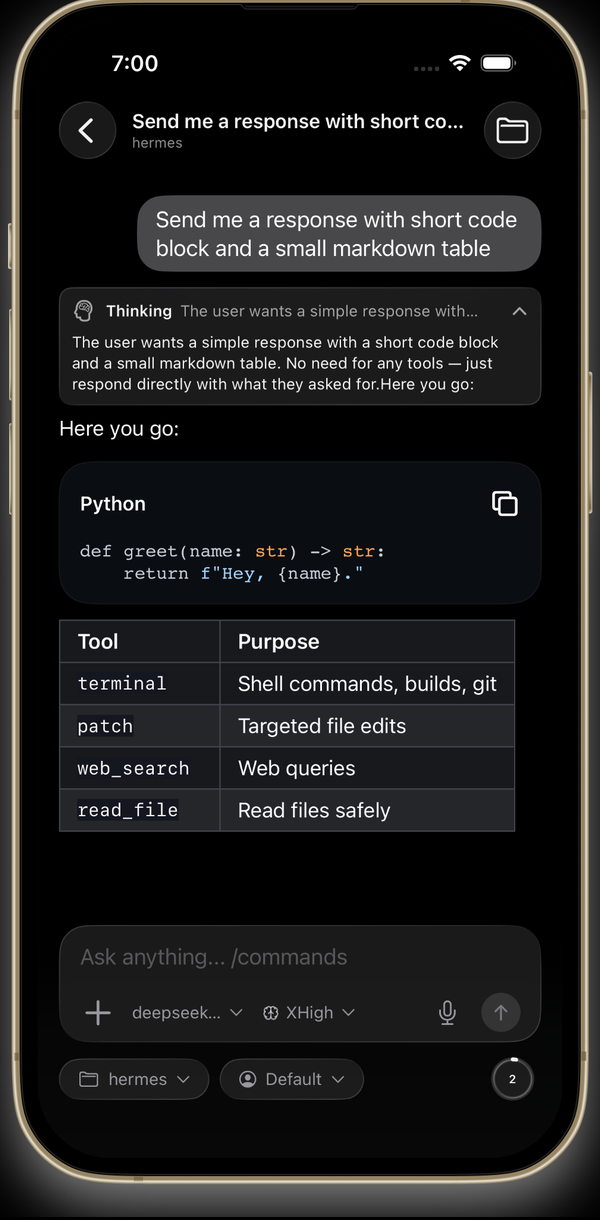
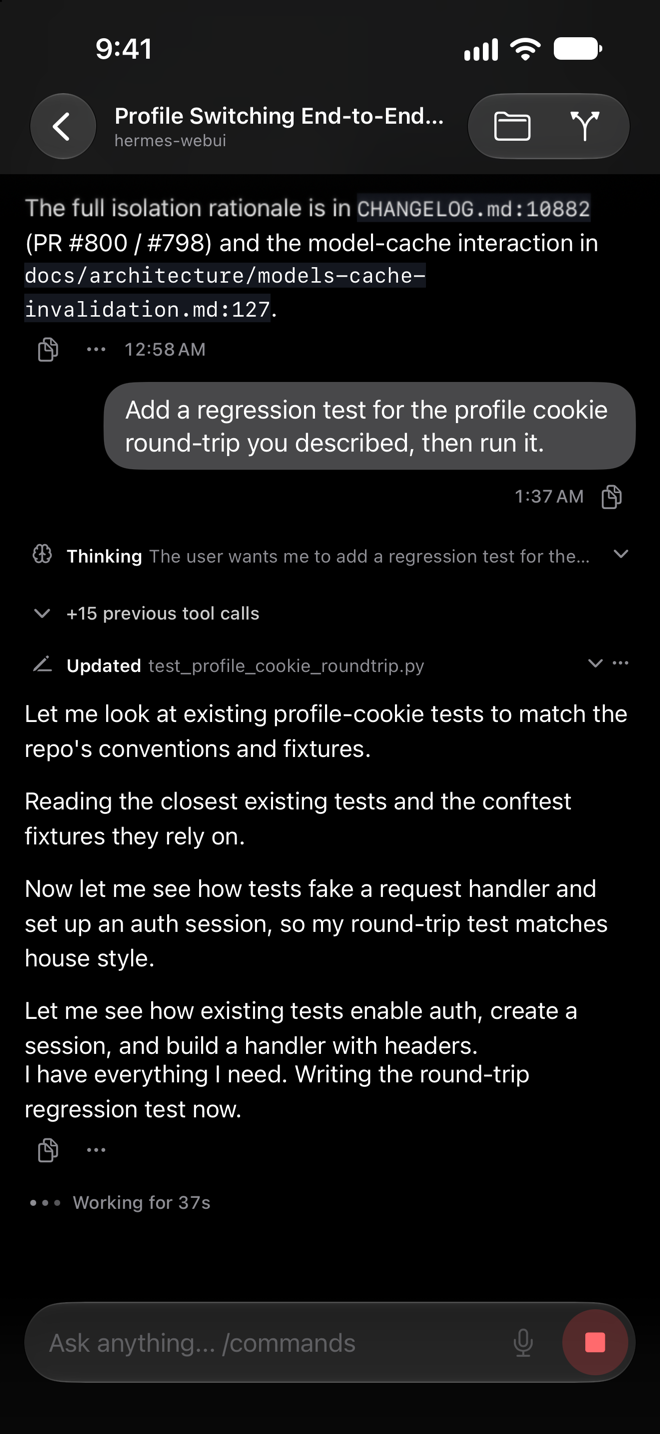
docs: refresh the README for Hermex 2.0 (#1487)
## Linked issue

None. Maintainer-requested docs refresh after the 2.0 release.

## What changed

Hermex 2.0 talks to Hermes directly, but the README still told new users
to install hermes-webui, used port 8787, checked `/health`, and showed
July screenshots.

The README now leads with Hermes. Getting started covers the dashboard
on 9119, `public_url`, sign-in, and the onboarding setup prompt, and
links the hermexapp.com setup guide. Reachability and troubleshooting
follow the same order as that guide. A short **Legacy hermes-webui
servers** section keeps the webui details and explains Move to Hermes.
The feature list, compatibility section (0.21.3 minimum, 0.22.3 for
session edits and moves), build steps (Xcode 27, `scripts/test-sim`),
and docs list are current.

The screenshots are the newest real captures in hermex-studio (the 1.9
batch, the same set hermexapp.com shows): chat, Bots, a Git diff, and
Tasks, resized to 660 px. A 2.0 reshoot is a planned follow-up.

CONTRIBUTING.md and SECURITY.md had the same webui-first claims and are
updated too. DEVELOPMENT.md's webui-first local setup is left for a
separate change.

## How it was tested

Docs and images only, so no build or XCTest. Every relative link and
image in the README resolves, the new badges render, the hermexapp.com
setup links return 200, and `git diff --check` is clean. Claims were
checked against the 2.0 changelog, `docs/agents/`,
`HermesCompatibility`, the onboarding setup prompt, and the
[…]

diff --git a/README.md b/README.md
@@ -4,12 +4,10 @@
 
 # Hermex
 
-**Control your self-hosted [Hermes](https://github.com/nesquena/hermes-webui) agent from your iPhone.**
+**Run your self-hosted [Hermes](https://github.com/NousResearch/hermes-agent) agent from your iPhone and iPad.**
 
-Your server. Your iPhone. No middleman.
-
-[![iOS 18+](https://img.shields.io/badge/iOS-18%2B-000000?logo=apple&logoColor=white)](https://apps.apple.com/app/hermex/id6767006319)
-[![Swift](https://img.shields.io/badge/Swift-5.9%2B-F05138?logo=swift&logoColor=white)](https://swift.org)
+[![iOS and iPadOS 18+](https://img.shields.io/badge/iOS%20%7C%20iPadOS-18%2B-000000?logo=apple&logoColor=white)](https://apps.apple.com/app/hermex/id6767006319)
+[![Swift](https://img.shields.io/badge/Swift-F05138?logo=swift&logoColor=white)](https://swift.org)
 [![License: MIT](https://img.shields.io/badge/License-MIT-brightgreen.svg)](LICENSE)
 [![Follow on X](https://img.shields.io/badge/Follow-%40uzairansar-000000?logo=x&logoColor=white)](https://x.com/uzairansar)
 [![Buy Me a Coffee](https://img.shields.io/badge/Buy%20Me%20a%20Coffee-support-FFDD00?logo=buymeacoffee&logoColor=black)](https://buymeacoffee.com/callmeuzi)
@@ -18,129 +16,146 @@ Your server. Your iPhone. No middleman.
   <img src="https://toolbox.marketingtools.apple.com/api/v2/badges/download-on-the-app-store/black/en-us" alt="Download on the App Store" height="50" />
 </a>
 
-[Website](https://hermexapp.com) · [App Store](https://apps.apple.com/app/hermex/id6767006319) · [Report a bug](https://github.com/uzairansaruzi/hermex/issues) · [Contributing](CONTRIBUTING.md)
+[Website](https://hermexapp.com) · [Setup guide](https://hermexapp.com/setup) · [App Store](https://apps.apple.com/app/hermex/id6767006319) · [Report a bug](https://github.com/uzairansaruzi/hermex/issues) · [Contributing](CONTRIBUTING.md)
 
-<img src="docs/assets/readme/hero-devices.png" alt="Hermex running on two iPhones: a streaming chat session and the home screen with Tasks, Skills, Memory, Insights, and Sessions" width="720" />
-
-</div>
-
-Hermex is a native SwiftUI iPhone app for driving a self-hosted [hermes-webui](https://github.com/nesquena/hermes-webui) server — a mobile cockpit for an AI agent that lives on a machine **you** control. The phone is the control plane, not the compute plane: the agent, its tools, and your data stay on your own hardware.
-
-- **Free.** No subscriptions, no in-app purchases.
-- **Private.** No analytics, no tracking. The app talks only to your server. Push notifications are optional and off until you enable them: an open-source relay you can self-host forwards them, seeing device tokens, notification metadata (kind, source, thread and session ids, timestamps), and ciphertext. It never sees message text, server URLs, or credentials.
-- **Native.** Real SwiftUI, built for iOS 18+, not a web wrapper.
-
-## Features
-
-- **Chat with your agent** — send messages with model, reasoning-effort, workspace, and profile options; attach files and images; watch responses stream in real time with thinking and tool-call detail.
-- **Documents in direct-Hermes chats** — tap a PDF or other supported `MEDIA:` document to read it in Quick Look, then save or share it.
-- **Steer or stop a run** mid-flight.
-- **Sessions** — browse, search, and resume every conversation on your server; cached sessions stay readable offline.
-- **Pick your models** — switch between any model or provider your server is configured for, with recents and favorites.
-- **Profiles & projects** — switch agent profiles and organize sessions into projects.
-- **Tasks** — view and edit your agent's scheduled cron jobs from your phone.
-- **Skills** — browse and search the agent's installed skills.
-- **Workspace browser** — explore your server's file system from the app.
-- **Memory & Insights** — read-only panels for agent memory and usage analytics.
-
-<div align="center">
 <table>
   <tr>
-    <td align="center"><img src="docs/assets/readme/screenshot-chat.png" alt="Streaming chat with code blocks and markdown tables" width="240" /><br /><sub><b>Stream responses in real time</b></sub></td>
-    <td align="center"><img src="docs/assets/readme/screenshot-tasks.png" alt="Tasks screen listing scheduled cron jobs" width="240" /><br /><sub><b>Manage scheduled tasks</b></sub></td>
-    <td align="center"><img src="docs/assets/readme/screenshot-skills.png" alt="Skills screen with searchable agent skills" width="240" /><br /><sub><b>Browse agent skills</b></sub></td>
+    <td align="center"><img src="docs/assets/readme/screenshot-chat.png" alt="A chat streaming the agent's thinking, tool calls, and reply" width="200" /><br /><sub><b>Stream and steer work</b></sub></td>
+    <td align="center"><img src="docs/assets/readme/screenshot-bots.png" alt="The Bots inbox with one-to-one and group chats" width="200" /><br /><sub><b>Chat with your bots</b></sub></td>
+    <td align="center"><img src="docs/assets/readme/screenshot-git.png" alt="A diff of four changed files, ready to stage" width="200" /><br /><sub><b>Review and commit changes</b></sub></td>
+    <td align="center"><img src="docs/assets/readme/screenshot-tasks.png" alt="A scheduled Task running, with its prompt and run history" width="200" /><br /><sub><b>Run scheduled Tasks</b></sub></td>
   </tr>
 </table>
 
-More screenshots at [hermexapp.com](https://hermexapp.com).
+More screenshots are on [hermexapp.com](https://hermexapp.com).
+
 </div>
+
+Hermex is a native SwiftUI app for iPhone and iPad. It connects directly to a [Hermes Agent](https://github.com/NousResearch/hermes-agent) host that you run. From your phone, you start and steer sessions, follow streaming work, answer the agent's questions, and review what it changed. Your server runs the agent and its tools, holds your data, and calls the model providers you configure.
+
+- **Free.** Hermex has no subscriptions and no in-app purchases.
+- **Private.** Hermex has no analytics and no tracking. Agent traffic goes only to your server. Push notifications are optional and off until you turn them on. They pass through an open-source relay that you can host yourself, and the relay never sees message text, server URLs, or credentials. [`docs/agents/push.md`](docs/agents/push.md) lists the metadata the relay does see.
+- **Native.** Hermex runs on iOS and iPadOS 18 or later, and it isn't a web wrapper.
+
+## What you can do
+
+On a Hermes server, Hermex gives you these features:
+
+- **Chat.** Stream replies with the agent's thinking and tool calls. Steer or stop a run, answer approvals and questions, and attach images and documents. Pick the model, Profile, and reasoning effort from the composer.
+- **Voice.** Dictate with the host's speech-to-text, and listen to replies in the host's voice.
+- **Sessions.** Search, rename, pin, archive, branch, and export sessions, and group them into projects. Cached sessions stay readable offline.
+- **Bots.** Chat with your Hermes bots one to one or in group chats.
+- **Files and Git.** Browse and preview the session's workspace files. See the Git status, then stage, commit, push, and switch branches.
+- **Tasks and Kanban.** Create scheduled Tasks, run them on demand, and read their run history. Manage Kanban boards and Cards with live updates.
+- **Skills, Memory, and Usage.** Turn skills on and off, edit the agent's memory and soul, and read its usage.
+- **Notifications and Live Activities.** Get a push when a reply finishes, and follow a run on the Lock Screen and in the Dynamic Island.
+- **System integration.** Start chats from Shortcuts, and share files and text into a session from other apps. On iPad, the session list sits in a sidebar beside the open chat.
+- **Multiple servers.** Add several servers and switch between them. Each server keeps its own sign-in, cache, and drafts.
 
 ## Getting started
 
-Hermex is a client only — it does not ship with, host, or provision a backend. You bring your own [hermes-webui](https://github.com/nesquena/hermes-webui) server (a third-party, MIT-licensed open-source project) running on a machine you control. Setup takes about 15 minutes:
+Hermex is a client only. It doesn't ship, host, or provision a server. You run Hermes Agent on a machine you control, and you're responsible for securing it and keeping it reachable.
 
-1. **Run the server.** Install and start `hermes-webui` on macOS, Linux, or Windows/WSL2 (Python 3.11+). Set `HERMES_WEBUI_PASSWORD`.
-2. **Make it reachable from your phone** (see options below).
-3. **Connect.** [Download Hermex](https://apps.apple.com/app/hermex/id6767006319), enter your server URL (e.g. `https://hermes.yourdomain.com`) and password, and you're in.
+The [setup guide](https://hermexapp.com/setup) covers each step in detail.
 
-**Running a Hermes host instead?** Hermex can also sign in to Hermes's own dashboard (`hermes dashboard`, port 9119). Onboarding's first step gives your agent a prompt that sets it up: username and password sign-in under `dashboard.basic_auth`, a persistent `dashboard.basic_auth.secret` so sign-ins survive a restart, and `dashboard.public_url` set to the address your phone uses, reached through one of the options below. Those examples use the Web UI's port 8787; substitute your dashboard's port (9119 by default) in addresses and forwarding commands. Hermes refuses to serve beyond `127.0.0.1` without that sign-in.
+1. Install Hermes Agent 0.21.3 or later. The [installation docs](https://hermes-agent.nousresearch.com/docs/getting-started/installation) cover Linux, macOS, WSL2, and native Windows. To update an existing install, run `hermes update`.
+2. Start the dashboard with `hermes dashboard`. It listens on `127.0.0.1:9119`, so only that machine can reach it.
+3. Make the dashboard reachable from your phone. [Make the server reachable](#make-the-server-reachable) lists the options.
+4. In `~/.hermes/config.yaml`, set `dashboard.public_url` to the address your phone uses. Then restart the dashboard with `hermes dashboard --no-open`. If you chose another private network or the same Wi-Fi, add the same `--host` flag. When it asks how to sign in, choose **Username & password**.
+5. Open [Hermex](https://apps.apple.com/app/hermex/id6767006319), enter the address, and tap **Connect**. Enter the dashboard's username and password, and tap **Connect** again.
 
-Self-hosting the server, securing it, and keeping it reachable are your responsibility.
+To have your agent do steps 3 and 4 for you, send it the setup prompt from Hermex's onboarding. The agent asks before it adds a route, and it tells you before it restarts the dashboard. Hermex also signs in to dashboards that use browser sign-in.
 
-### Making the server reachable
+### Make the server reachable
 
-- **HTTPS via a tunnel or reverse proxy (recommended).** Expose the server through Cloudflare Tunnel or any reverse proxy that terminates real TLS at a hostname you own. Real HTTPS keeps iOS App Transport Security happy with no exceptions. On a publicly reachable hostname the password is your only app-level defense — set a strong one.
-- **Private HTTPS with Tailscale Serve.** Keep the server password-protected and bound to `127.0.0.1:8787`, inspect existing Serve/Funnel routes, then add `tailscale serve --bg 8787` only when HTTPS port 443 at the root path is free. Install Tailscale on the iPhone and connect with the exact `https://…ts.net` URL reported by `tailscale serve status`. Direct binding to `0.0.0.0` over plain HTTP remains a manual fallback, not the default.
-- **Another private network, such as NetBird.** Install its app on the iPhone, keep it connected, and use the server's name or IP on that network.
-- **Same Wi-Fi.** On a home network you trust, use the machine's local address and port, such as `http://192.168.1.5:8787`. The server must listen on that address rather than only `127.0.0.1`, which exposes it to every device on the network, so keep the password strong.
-- **Simulator-only local testing** can use `http://localhost:8787` when the server runs on the same Mac.
+Pick one of these routes. Each one gives you the address you enter in Hermex.
 
-### Troubleshooting the connection
+- **Tailscale Serve (recommended).** Install Tailscale on the server machine and on your iPhone, and sign both in to the same tailnet. Leave the dashboard on `127.0.0.1` and run `tailscale serve --bg 9119`. Serve takes HTTPS port 443 at the root path. If the machine already serves something there, run `tailscale serve status` first so you don't replace it. Your address is the `https://<machine>.<tailnet>.ts.net` URL that `tailscale serve status` prints.
+- **Cloudflare Tunnel behind Cloudflare Access.** A tunnel gives the dashboard a public HTTPS hostname without an open port. The dashboard's password sign-in isn't meant for the open internet, so put Cloudflare Access with a service token in front of it. When you connect in Hermex, choose **Cloudflare Tunnel** and paste the token's Client ID and Client Secret.
+- **Another private network, such as NetBird.** Install its app on the iPhone and keep it connected. Start the dashboard with `--host` set to the machine's address on that network, and use that address.
+- **Same Wi-Fi.** Start the dashboard with `--host 0.0.0.0` and use `http://<machine-ip>:9119`. The password then crosses your network unencrypted, so do this only on a network you trust.
+- **Simulator only.** Use `http://localhost:9119` when the dashboard runs on the same Mac.
 
-If connection testing fails, check these first:
+### Troubleshoot the connection
 
-1. The machine hosting `hermes-webui` is awake.
-2. `hermes-webui` is running and serving `/health` (`curl https://<your-server>/health`).
-3. The tunnel, reverse proxy, or Tailscale route is connected.
-4. The server URL and password are correct.
+If Hermex can't connect, check these in order:
 
-## Building from source
+1. The server machine is awake, and the dashboard is running.
+2. The tunnel, proxy, or Tailscale route is connected.
+3. From another device, `curl https://<your-host>/api/status` returns `"auth_required": true`. Behind Cloudflare Access, add the service token's `CF-Access-Client-Id` and `CF-Access-Client-Secret` headers.
+4. The address in Hermex matches the scheme and host in `dashboard.public_url`.
+5. The username and password are correct.
 
-Prefer the [App Store build](https://apps.apple.com/app/hermex/id6767006319) unless you're developing. To build yourself you need Xcode 26 or newer (iOS 18 SDK) and an iPhone or simulator on iOS 18+.
-
-Clone the repo, open `HermesMobile.xcodeproj`, and run the `HermesMobile` scheme on an iPhone simulator (the Xcode target is `HermesMobile`; the app's display name is `Hermex`). Dependencies are resolved automatically via Swift Package Manager.
-
-From the command line:
-
-```zsh
-xcodebuild -project HermesMobile.xcodeproj -scheme HermesMobile -destination 'platform=iOS Simulator,name=iPhone 17' build
-```
-
-```zsh
-xcodebuild test -project HermesMobile.xcodeproj -scheme HermesMobile -destination 'platform=iOS Simulator,name=iPhone 17'
-```
-
-If that simulator is not installed, list available devices and choose a nearby iPhone simulator:
-
-```zsh
-xcrun simctl list devices available
-```
-
-Local validation defaults for XcodeBuildMCP users live in `.xcodebuildmcp/config.yaml`; the standard post-change flow is in [`DEVELOPMENT.md`](DEVELOPMENT.md).
+If sign-in works but chats fail, check that your proxy forwards WebSocket connections.
 
 ## Server compatibility
 
-The app is developed and tested against the `hermes-webui` commit pinned in [`UPSTREAM_TESTED_SHA`](UPSTREAM_TESTED_SHA). Upstream does not yet guarantee API stability (its README declares version skew unsupported pending their stable-API work), so newer or older server versions may break individual features — please include your server version in bug reports. The app decodes tolerantly (unknown fields never crash it) and endpoint shapes are verified against upstream source, never invented.
+Hermex signs in to Hermes 0.21.3 and later. On an older host, it asks you to update Hermes. Session edits and Move to Hermes need Hermes 0.22.3 or later.
 
-Bot Mode's direct-Hermes connection has its own pin, [`HERMES_AGENT_TESTED_SHA`](HERMES_AGENT_TESTED_SHA): line 1 is the tested `hermes-agent` commit and line 2 the release string its `/api/status` reports. Hermex refuses a host older than Hermes 0.21.3, the first release with the gateway contract it is built on, and asks you to update Hermes; 0.21.3 and later connect without a warning.
+We test each release against the `hermes-agent` commit in [`HERMES_AGENT_TESTED_SHA`](HERMES_AGENT_TESTED_SHA). Line 1 is the commit, and line 2 is the release that commit reports. Hermex decodes server responses tolerantly, so a field it doesn't know never crashes it. Include your Hermes version in bug reports.
 
-## Documentation map
+Push notifications, Git fetch and pull, and provider limits in Usage need the open-source [hermex-push](https://github.com/uzairansaruzi/hermex-push) plugin on the host. Hermex installs the plugin when you turn on push for a server.
 
-- [`AGENTS.md`](AGENTS.md): the working agreement — product boundaries, server-contract rules, locked dependencies, verification, and PR flow.
-- [`DEVELOPMENT.md`](DEVELOPMENT.md): local development workflow, server setup notes, and the maintainer release runbook.
-- [`TESTFLIGHT.md`](TESTFLIGHT.md): maintainer-only TestFlight/App Store Connect operations.
+## Legacy hermes-webui servers
+
+Hermex 1.x connected to [hermes-webui](https://github.com/nesquena/hermes-webui) servers. Those servers still work in Hermex 2.0 and still get fixes, but new features go to Hermes. Settings marks them **Legacy**.
+
+- To keep using a webui server, sign in with its address and password as before. The [legacy setup guide](https://hermexapp.com/setup/webui) covers running it and making it reachable. A webui server listens on port 8787, and `curl https://<your-server>/health` checks that it's up.
+- To switch to Hermes, use **Move to Hermes**. It copies a webui server's chats and drafts to a Hermes host. Push carries over when the Hermes host is the same Hermes install. Otherwise, turn notifications on again for the Hermes server. The webui server keeps working until you remove it.
+
+The webui contract is pinned to the commit in [`UPSTREAM_TESTED_SHA`](UPSTREAM_TESTED_SHA). Upstream doesn't guarantee a stable API, so a newer or older server can break individual features.
+
+## Build from source
+
+Use the [App Store build](https://apps.apple.com/app/hermex/id6767006319) unless you're developing Hermex. To build it yourself, you need Xcode 27 and an iPhone, iPad, or simulator on iOS 18 or later. CI pins Xcode 27.0.
+
+Open `HermesMobile.xcodeproj` and run the `HermesMobile` scheme. The Xcode target is `HermesMobile`, and the app's display name is Hermex. Xcode resolves the dependencies through Swift Package Manager.
+
+To build from the command line, pick a simulator UDID from `xcrun simctl list devices available`:
+
+```zsh
+xcodebuild -project HermesMobile.xcodeproj -scheme HermesMobile -destination 'platform=iOS Simulator,id=<simulator-udid>' build
+```
+
+To run the tests, use the repository's test runner:
+
+```zsh
+scripts/test-sim <simulator-udid>
+```
+
+[`DEVELOPMENT.md`](DEVELOPMENT.md) covers the full local workflow, including signing and test logs. XcodeBuildMCP reads its defaults from `.xcodebuildmcp/config.yaml`.
+
+## Documentation
+
+- [`AGENTS.md`](AGENTS.md): the working agreement. It covers product boundaries, server-contract rules, locked dependencies, verification, and PR flow.
+- [`CONTEXT.md`](CONTEXT.md): the project's vocabulary.
+- [`DEVELOPMENT.md`](DEVELOPMENT.md): local development, server setup, and the maintainer release runbook.
+- [`CHANGELOG.md`](CHANGELOG.md): what changed in each App Store release.
+- [`docs/agents/hermes-server.md`](docs/agents/hermes-server.md): how Hermex signs in to a Hermes host and reconnects.
+- [`docs/agents/push.md`](docs/agents/push.md): the push components and the data the relay sees.
+- [`docs/agents/`](docs/agents): the other agent conventions and feature notes.
+- [`TESTFLIGHT.md`](TESTFLIGHT.md): maintainer-only TestFlight and App Store Connect operations.
 - [`SECURITY.md`](SECURITY.md): how to report a vulnerability.
-- [`docs/agents/`](docs/agents): repo-local agent workflow conventions (issues, triage labels, domain notes).
-- [GitHub Issues](https://github.com/uzairansaruzi/hermex/issues): source of truth for active bugs, polish notes, and feature requests.
+- [GitHub Issues](https://github.com/uzairansaruzi/hermex/issues): the roadmap, active bugs, and feature requests.
 
 ## Contributing
 
-Contributions are welcome — see [`CONTRIBUTING.md`](CONTRIBUTING.md) for how to pick up work and open a PR, [`AGENTS.md`](AGENTS.md) for the working agreement coding agents follow in this repo, and the [Code of Conduct](CODE_OF_CONDUCT.md). The short version:
+Contributions are welcome. [`CONTRIBUTING.md`](CONTRIBUTING.md) explains how to pick up work and open a PR. [`AGENTS.md`](AGENTS.md) holds the rules coding agents follow in this repo. Read the [Code of Conduct](CODE_OF_CONDUCT.md) too. The rules that matter most:
 
-- Do not invent API endpoints or JSON shapes; verify against the upstream server source or a running server.
-- Every `Codable` model decodes tolerantly — never crash on unknown fields.
-- Add no third-party dependencies beyond the locked list in `AGENTS.md` without explicit approval.
-- Do not modify the upstream `hermes-webui` server from this repo.
+- Never invent an endpoint, RPC method, or JSON shape. Verify it against upstream source or a running server.
+- Decode every server model tolerantly, so an unknown field never crashes the app.
+- Add no third-party dependency beyond the locked list in `AGENTS.md` without approval.
+- Don't change Hermes Agent or hermes-webui from this repo.
 
 ## Support the project
 
 Hermex is free and built in the open. If it's useful to you:
 
-- ⭐ **Star this repo** — it helps others find the project.
-- 🐦 **Follow [@uzairansar on X](https://x.com/uzairansar)** for updates and dev logs.
-- ☕ **[Buy me a coffee](https://buymeacoffee.com/callmeuzi)** to support development.
-- 💬 **[Join the Hermex Discord](https://discord.gg/xDQWBCG4DQ)** for help, updates, and to talk with other users.
-- 💛 **[Become a member](https://buymeacoffee.com/callmeuzi/membership)** for early TestFlight builds, the members-only Discord channels, and a vote on what gets built next.
+- Star this repo so others can find it.
+- Follow [@uzairansar on X](https://x.com/uzairansar) for updates and dev logs.
+- [Buy me a coffee](https://buymeacoffee.com/callmeuzi) to support development.
+- [Join the Hermex Discord](https://discord.gg/xDQWBCG4DQ) for help, updates, and other users.
+- [Become a member](https://buymeacoffee.com/callmeuzi/membership) for early TestFlight builds, the members-only Discord channels, and a vote on what gets built next.
 
 <a href="https://buymeacoffee.com/callmeuzi"><img src="https://img.shields.io/badge/Buy%20Me%20a%20Coffee-callmeuzi-FFDD00?style=for-the-badge&logo=buymeacoffee&logoColor=black" alt="Buy Me a Coffee" height="40" /></a>
 
@@ -158,8 +173,8 @@ Hermex is funded by its members. Thank you.
 
 ## License
 
-MIT — see [LICENSE](LICENSE).
+MIT. See [LICENSE](LICENSE).
 
-The file-type icons in the workspace tree are [Pierre](https://pierre.co)'s `@pierre/trees` icons (Apache-2.0) with six additions from [T3 Code](https://github.com/pingdotgg/t3code) (MIT).
+The file-type icons in the workspace tree are [Pierre](https://pierre.computer)'s `@pierre/trees` icons (Apache-2.0), with a few additions from [T3 Code](https://github.com/pingdotgg/t3code) (MIT).
 
-Hermex is an independent client and is not affiliated with the upstream [hermes-webui](https://github.com/nesquena/hermes-webui) project. Apple, the Apple logo, and App Store are trademarks of Apple Inc.
+Hermex is an independent client. It isn't affiliated with Nous Research, Hermes Agent, or the [hermes-webui](https://github.com/nesquena/hermes-webui) project. Apple, the Apple logo, and App Store are trademarks of Apple Inc.

diff --git a/CONTRIBUTING.md b/CONTRIBUTING.md
@@ -6,8 +6,7 @@ read the [Code of Conduct](CODE_OF_CONDUCT.md).
 
 ## Local setup
 
-- **Xcode 26 or newer** (the project builds with the iOS 18 SDK or later; the
-  deployment target is iOS 18).
+- **Xcode 27** (CI pins 27.0; the deployment target is iOS 18).
 - Clone the repo and open `HermesMobile.xcodeproj`. Dependencies resolve
   automatically via Swift Package Manager — the dependency list is locked in
   `AGENTS.md`; do not add new ones without maintainer approval. Their versions
@@ -16,11 +15,11 @@ read the [Code of Conduct](CODE_OF_CONDUCT.md).
   project.
 - Build and run the **`HermesMobile`** scheme on an iPhone simulator
   (`iPhone 17` is the reference device; any recent iPhone simulator works).
-- To actually use the app you need your own
-  [hermes-webui](https://github.com/nesquena/hermes-webui) server — the app is
-  a client only. See the [README](README.md#getting-started) for
-  reachable-server options (Cloudflare Tunnel, reverse proxy, Tailscale, or
-  `http://localhost:8787` for simulator-only testing).
+- To use the app, you need your own
+  [Hermes Agent](https://github.com/NousResearch/hermes-agent) host. The app is
+  a client only. See the [README](README.md#getting-started) for setup and
+  reachable-server options (`http://localhost:9119` works for simulator-only
+  testing).
 
 ## Running tests
 
@@ -101,12 +100,14 @@ create an obligation to review or merge it.
 
 ## App bug or server bug?
 
-Hermex is a thin client over [hermes-webui](https://github.com/nesquena/hermes-webui),
-so a fair share of apparent app bugs are really server bugs. Before filing a
-bug here, reproduce it in the hermes-webui **web UI** against the same server:
+Hermex is a thin client over your server, so a fair share of apparent app bugs
+are really server bugs. Before filing a bug here, reproduce it in the server's
+own web interface against the same server: the Hermes dashboard, or the web UI
+on a legacy hermes-webui server.
 
-- **Breaks in the web UI too** → it's a server bug. File it
-  [upstream](https://github.com/nesquena/hermes-webui/issues); if the app
+- **Breaks in the web interface too** → it's a server bug. File it upstream
+  ([Hermes Agent](https://github.com/NousResearch/hermes-agent/issues) or
+  [hermes-webui](https://github.com/nesquena/hermes-webui/issues)); if the app
   should still handle it more gracefully, open an issue here that links the
   upstream ticket (we track those with the `upstream-change` label).
 - **Only breaks in the app** → file it here with the bug-report form.
@@ -138,7 +139,8 @@ the issue for your approval. Send it:
    - **Tolerant decoding:** every `Codable` model uses optionals for fields the
      server might add or rename — never crash on unknown fields.
    - **Never invent API endpoints or JSON shapes** — verify against the pinned
-     upstream `hermes-webui` source or your own running server.
+     upstream source (`hermes-agent`, or `hermes-webui` for legacy servers) or
+     your own running server.
    - **No new third-party dependencies** without approval.
 4. **Run the full test suite** (command above) and make sure it passes.
 5. **Open a PR** against `master` using the PR template — link the issue with

diff --git a/SECURITY.md b/SECURITY.md
@@ -21,7 +21,8 @@ reasonable window to ship a fix before disclosing publicly.
 ## Scope
 
 This repository contains only the iOS client. Vulnerabilities in the
-[hermes-webui](https://github.com/nesquena/hermes-webui) server should be
-reported to that project instead. Issues with how *this app* stores
+[Hermes Agent](https://github.com/NousResearch/hermes-agent) or legacy
+[hermes-webui](https://github.com/nesquena/hermes-webui) servers should be
+reported to those projects instead. Issues with how *this app* stores
 credentials, talks to the server, or handles untrusted server responses are in
 scope here.
